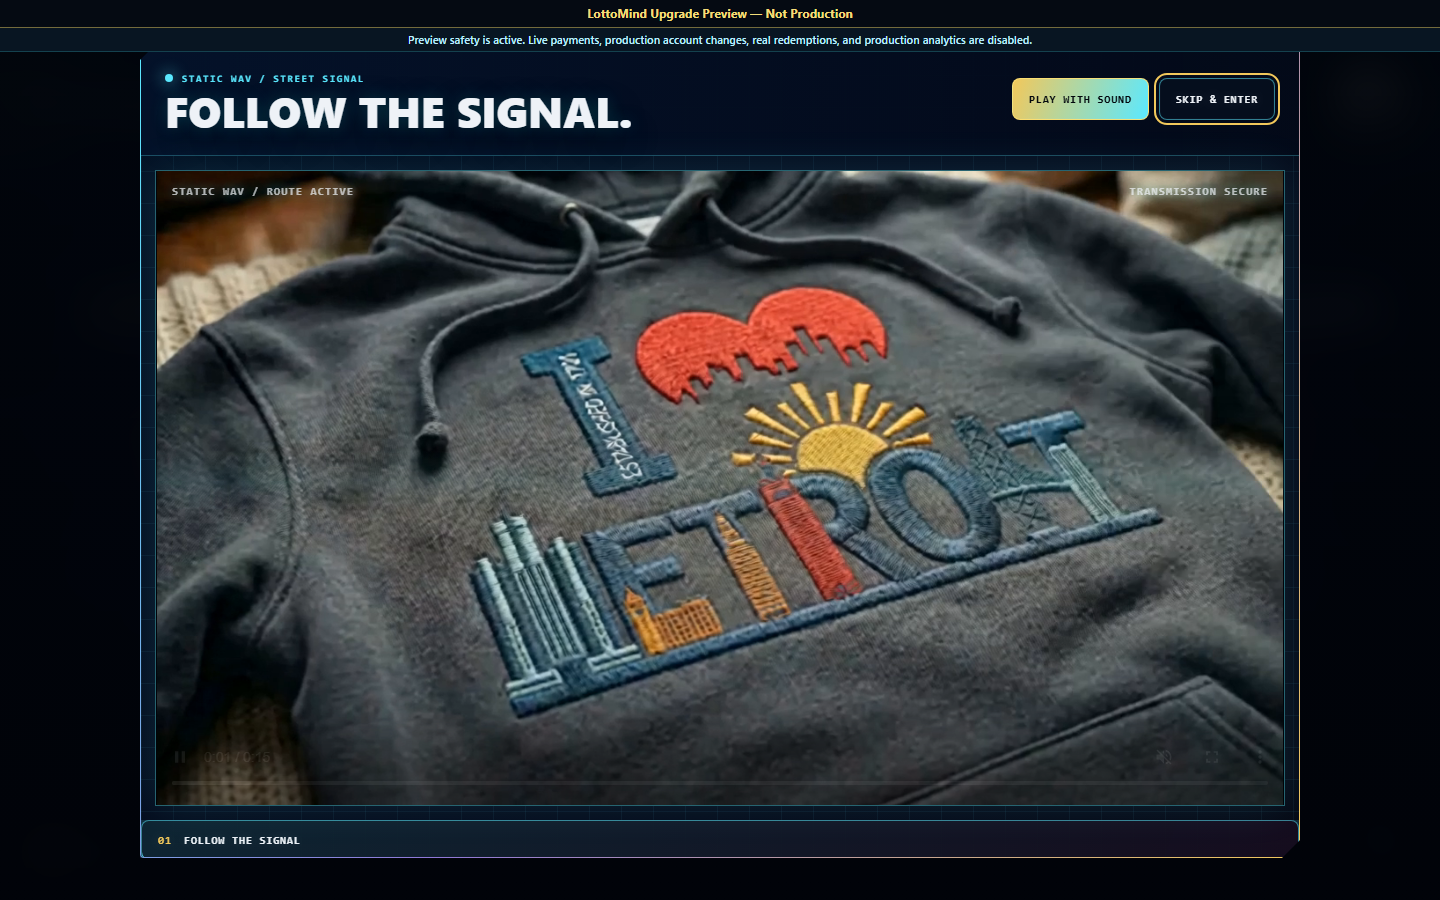
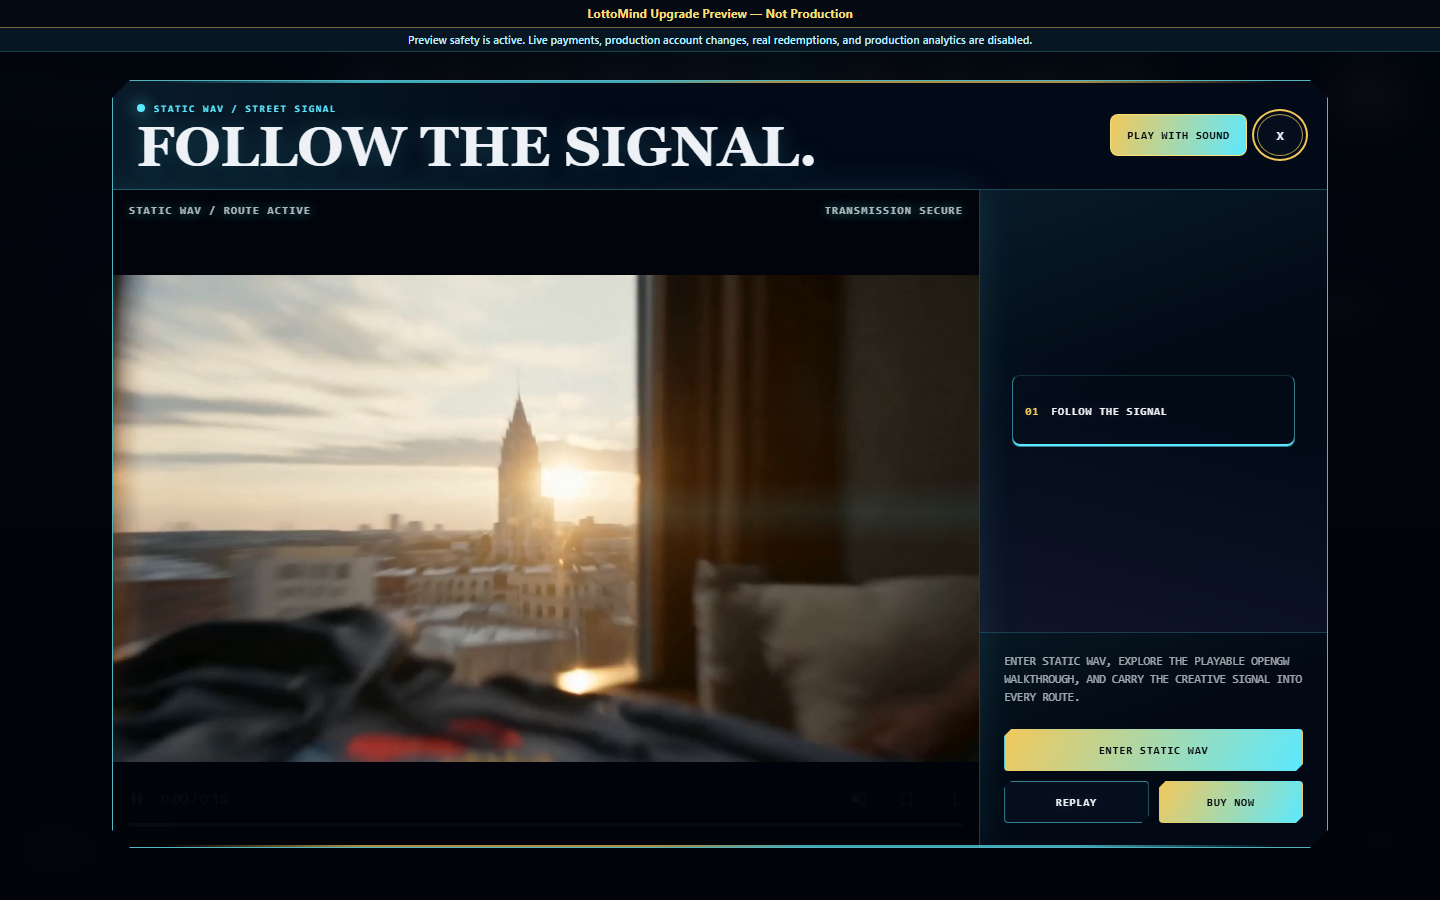
docs: record Static Wav Storefront HUD verification

diff --git a/docs/upgrade-redesign-status.md b/docs/upgrade-redesign-status.md
@@ -271,3 +271,18 @@
 - Staging safety: Noindex and preview banners verified; live payments, production account writes, real redemptions, and production analytics remain blocked
 - Live checkout: Not exercised or changed by this correction
 - Approval status: Ready for next phase; production remains unchanged and not approved
+
+## Static Wav Storefront HUD Alignment
+
+- Step number: Browser-requested Static Wav commercial visual alignment
+- Implementation commits: `710d3a477d0b0eb8e7aba65e9d3f5933b68e4c41` and `19a41a5c3ed07c9e996f849d2318882008917366`
+- Affected route: `/how-to-use.html`
+- Changes: Restyled the existing Static Wav commercial to match the Storefront HUD language with a clipped cyan/gold frame, larger film bay, desktop signal rail, contained action deck, and stacked mobile layout; kept the original Static Wav commercial video and playback lifecycle unchanged
+- Tests: JavaScript syntax and diff checks passed; site validation passed for 15 HTML files; focused Static Wav desktop/mobile checks passed 2/2; staging safety passed 10/10; full source/staging desktop/mobile route matrix passed 92/92; staging static verification passed for 23 pages and 543 same-origin asset references
+- Visual review: Refreshed Static Wav captures at 1440x900, 768x1024, and 390x844 under `docs/staging-reviews/signal-media-corrections-assets/`; compared with `docs/visual-baseline/v1/how-to-use--desktop.png` and `docs/visual-baseline/v1/how-to-use--mobile.png`
+- Intentional visual departure: The v1 single-column commercial becomes a Storefront-style split HUD on wider viewports while retaining a complete one-column control flow on mobile
+- Verification: No horizontal overflow, console errors, page errors, broken assets, or staging-banner overlap in the three affected-route captures
+- Staging URL: Local only (`http://127.0.0.1:8143/how-to-use.html`)
+- Staging safety: Noindex and preview banners verified; live payments, production account writes, real redemptions, and production analytics remain blocked
+- Live checkout: Not exercised or changed
+- Approval status: Ready for next phase; production remains unchanged and not approved

diff --git a/docs/staging-reviews/signal-media-corrections.md b/docs/staging-reviews/signal-media-corrections.md
@@ -107,3 +107,17 @@
 - Accessibility: Popup close, sound, replay, enter, and Buy Now controls remain keyboard reachable; reduced-motion captures passed at all three sizes.
 - Safety: Buy Now is navigation only. Staging continues to block live payments, account writes, real redemptions, and production analytics.
 - Approval status: **Ready for next phase.** Production remains unchanged and not approved.
+
+## 2026-07-28 Static Wav Storefront HUD Addendum
+
+- Implementation commits: `710d3a477d0b0eb8e7aba65e9d3f5933b68e4c41` and `19a41a5c3ed07c9e996f849d2318882008917366`
+- Refreshed route: Static Wav (`/how-to-use.html`)
+- Refreshed viewports: 1440x900, 768x1024, and 390x844
+- Verification: 3/3 captures passed noindex, staging-banner, horizontal-overflow, console-error, page-error, and same-origin asset checks
+- Improvement: The existing Static Wav film now sits in the same futuristic HUD language as the Storefront commercial, with a larger film bay and a dedicated signal/action rail at wider viewports.
+- Improvement: The mobile popup stacks the full title, film, chapter, copy, Enter, Replay, and Buy Now controls below the preview safety bars without cropping or overflow.
+- Preserved behavior: The original `lottomind-guide-commercial-20260717.mp4` media, one-pass playback, sound fallback, automatic end-of-film dismissal, route transition, and Storefront-only Buy Now navigation are unchanged.
+- Intentional departure: The v1 single-column frame is replaced by a more structured Storefront-style split panel on desktop and tablet.
+- Accessibility: The close control has an accessible name, all actions remain keyboard reachable, and reduced-motion capture leaves no running animation.
+- Safety: Staging remains noindex and continues to block live payments, account writes, real redemptions, and production analytics.
+- Approval status: **Ready for next phase.** Production remains unchanged and not approved.
